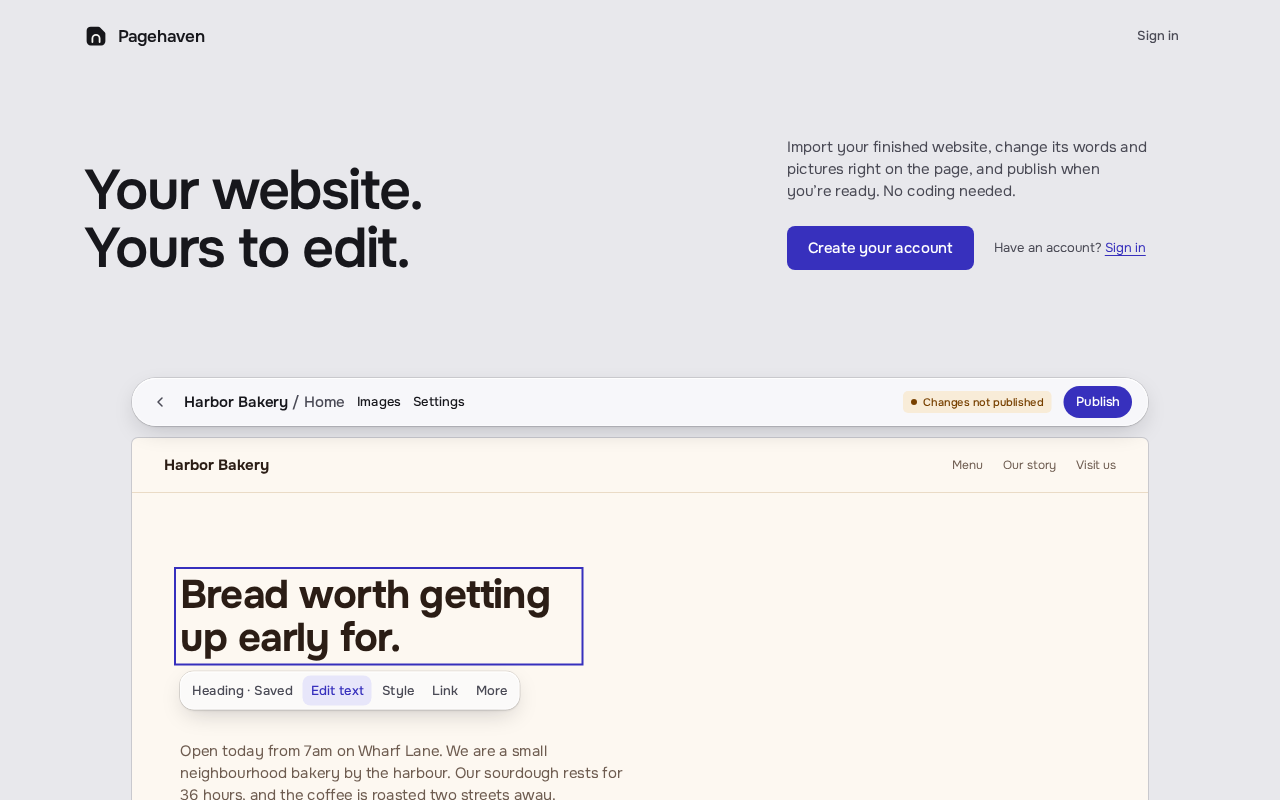
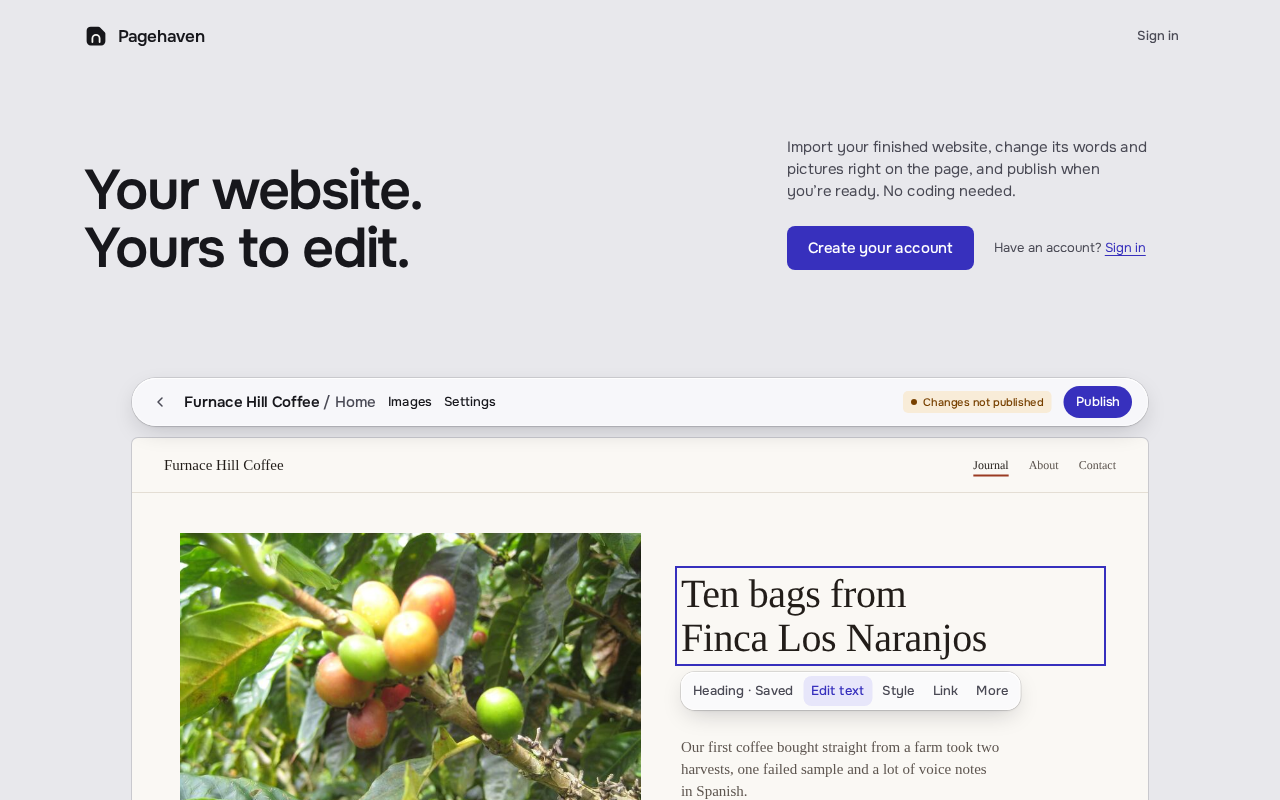
Show Furnace Hill Coffee, the realistic blog, in the landing page illustration

diff --git a/assets/static/css/screens.css b/assets/static/css/screens.css
@@ -3,13 +3,12 @@
 
 :root {
   /* The Harbor Bakery demo site drawn on the landing page. These are the site's colours, not Pagehaven's. */
-  --demo-cream: #FDF8F1;
-  --demo-line: #EADBC6;
-  --demo-ink: #2B1D15;
-  --demo-muted: #6E5C50;
-  --demo-crust: #8A3F17;
-  --demo-radius: 10px;
-  --demo-font: var(--font-ui);
+  --demo-cream: #FAF8F4;
+  --demo-line: #E4DED4;
+  --demo-ink: #221D19;
+  --demo-muted: #5E5650;
+  --demo-crust: #9A3B22;
+  --demo-font: Georgia, "Times New Roman", serif;
   --demo-title: 2.5rem;
 }
 
@@ -226,17 +225,19 @@
 
 .demo-site { background: var(--demo-cream); border-radius: var(--radius-canvas); box-shadow: var(--shadow-canvas); font-family: var(--demo-font); color: var(--demo-ink); }
 .demo-nav { display: flex; align-items: center; gap: var(--s5); padding: var(--s4) var(--s7); border-bottom: 1px solid var(--demo-line); font-size: var(--fs-meta); color: var(--demo-muted); }
-.demo-nav b { margin-right: auto; font-size: var(--fs-body); color: var(--demo-ink); }
-.demo-hero { padding: var(--s11) var(--s9) var(--s9); }
+.demo-nav b { margin-right: auto; font-size: var(--fs-lead); font-weight: 400; color: var(--demo-ink); }
+.demo-nav .is-current { color: var(--demo-ink); text-decoration: underline 2px var(--demo-crust); text-underline-offset: 6px; }
+.demo-hero { display: grid; grid-template-columns: minmax(0, 1.1fr) minmax(0, 1fr); gap: var(--s8); align-items: center; padding: var(--s8) var(--s9) var(--s9); }
+.demo-photo { display: block; width: 100%; height: auto; aspect-ratio: 4 / 3; object-fit: cover; }
+.demo-meta { margin-top: var(--s4); font-family: var(--font-ui); font-size: var(--fs-meta); color: var(--demo-muted); }
 .demo-selected { position: relative; width: fit-content; max-width: 100%; }
-.demo-title { font-size: var(--demo-title); line-height: 1.08; font-weight: 700; letter-spacing: -0.02em; max-width: 15ch; outline: var(--select-stroke) solid var(--select); outline-offset: var(--s1); }
+.demo-title { font-size: var(--demo-title); line-height: 1.1; font-weight: 400; letter-spacing: -0.01em; text-wrap: balance; outline: var(--select-stroke) solid var(--select); outline-offset: var(--s1); }
 .demo-title.crop::before { inset: calc(-1 * (var(--crop-gap) + var(--crop-mark) + var(--s1))); }
 .mock-caption { position: absolute; left: 0; top: calc(100% + 12px); display: flex; gap: var(--s0); padding: var(--s1); font-family: var(--font-ui); }
 .mock-caption span { white-space: nowrap; display: inline-flex; align-items: center; gap: 6px; height: var(--control-h-sm); padding: 0 var(--s2); border-radius: var(--radius-control); font-size: var(--fs-label); font-weight: var(--fw-control); color: var(--ink-2); }
 .mock-caption span.is-on { background: var(--select-soft); color: var(--link); }
 .mock-kind { color: var(--select-strong); font-weight: var(--fw-micro); }
-.demo-text { margin-top: 80px; max-width: 46ch; font-size: var(--fs-lead); line-height: var(--lh-lead); color: var(--demo-muted); }
-.demo-button { display: inline-flex; align-items: center; height: var(--s8); margin-top: var(--s6); padding: 0 var(--s5); border-radius: var(--demo-radius); background: var(--demo-crust); color: var(--overlay-chip-ink); font-size: var(--fs-control); font-weight: 700; }
+.demo-text { margin-top: 76px; max-width: 46ch; font-size: var(--fs-lead); line-height: var(--lh-lead); color: var(--demo-muted); }
 
 .home-steps { max-width: var(--page-max); margin: 0 auto; padding: var(--s10) var(--gutter); }
 .steps { margin: 0; padding: 0; display: grid; grid-template-columns: repeat(3, minmax(0, 1fr)); gap: var(--s7); list-style: none; counter-reset: step; }
@@ -269,8 +270,8 @@
   .page-head { align-items: flex-start; flex-direction: column; }
   .mock-page, .mock-bar .pill { display: none; }
   .demo-nav span { display: none; }
-  .demo-hero { padding: var(--s5) var(--s5) var(--s7); }
-  .demo-selected { margin-top: var(--s6); }
+  .demo-hero { grid-template-columns: 1fr; gap: var(--s5); padding: var(--s5) var(--s5) var(--s7); }
+
   :root { --demo-title: 2rem; }
   .steps { grid-template-columns: 1fr; gap: var(--s6); }
   .promises > div { grid-template-columns: 1fr; }

diff --git a/assets/views/home.html b/assets/views/home.html
@@ -27,11 +27,11 @@
     <div class="proof-sheet" aria-hidden="true">
       <div class="mock-bar material-float material-capsule">
         <span class="mock-back"><svg class="icon icon-sm" aria-hidden="true"><use href="/static/img/icons.svg#i-chevron-left"/></svg></span>
-        <span class="mock-name">Harbor Bakery <span class="mock-page">/ Home</span></span>
+        <span class="mock-name">Furnace Hill Coffee <span class="mock-page">/ Home</span></span>
         <span class="mock-word">Images</span>
         <span class="mock-word">Settings</span>
         <span class="mock-bar-end">
-          <span class="mock-url"><svg class="icon icon-sm" aria-hidden="true"><use href="/static/img/icons.svg#i-domain"/></svg>harbor-bakery.{{ sites_domain }}</span>
+          <span class="mock-url"><svg class="icon icon-sm" aria-hidden="true"><use href="/static/img/icons.svg#i-domain"/></svg>furnace-hill.{{ sites_domain }}</span>
           <span class="pill pill-changes">Changes not published</span>
           <span class="mock-publish">Publish</span>
         </span>
@@ -39,20 +39,23 @@
       <div class="mock-body">
         <div class="mock-canvas">
           <div class="demo-site">
-            <div class="demo-nav"><b>Harbor Bakery</b><span>Menu</span><span>Our story</span><span>Visit us</span></div>
+            <div class="demo-nav"><b>Furnace Hill Coffee</b><span class="is-current">Journal</span><span>About</span><span>Contact</span></div>
             <div class="demo-hero">
-              <div class="demo-selected">
-                <p class="demo-title">Bread worth getting up early for.</p>
-                <div class="mock-caption material-float">
-                  <span class="mock-kind">Heading · Saved</span>
-                  <span class="is-on">Edit text</span>
-                  <span>Style</span>
-                  <span>Link</span>
-                  <span>More</span>
+              <img class="demo-photo" src="/static/img/landing-coffee-cherries.jpg" width="720" height="540" alt="">
+              <div class="demo-copy">
+                <div class="demo-selected">
+                  <p class="demo-title">Ten bags from Finca Los Naranjos</p>
+                  <div class="mock-caption material-float">
+                    <span class="mock-kind">Heading · Saved</span>
+                    <span class="is-on">Edit text</span>
+                    <span>Style</span>
+                    <span>Link</span>
+                    <span>More</span>
+                  </div>
                 </div>
+                <p class="demo-text">Our first coffee bought straight from a farm took two harvests, one failed sample and a lot of voice notes in Spanish.</p>
+                <p class="demo-meta">14 October 2026 · 5 min read</p>
               </div>
-              <p class="demo-text">Open today from 7am on Wharf Lane. We are a small neighbourhood bakery by the harbour. Our sourdough rests for 36 hours, and the coffee is roasted two streets away.</p>
-              <span class="demo-button">See today's menu</span>
             </div>
           </div>
         </div>
